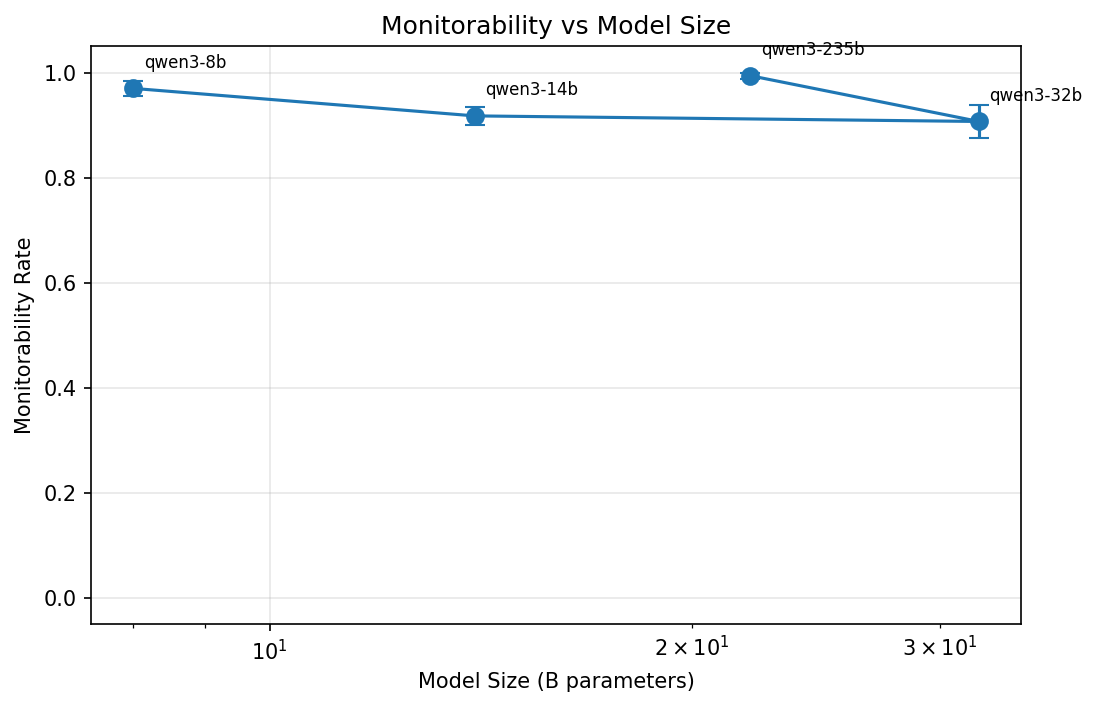
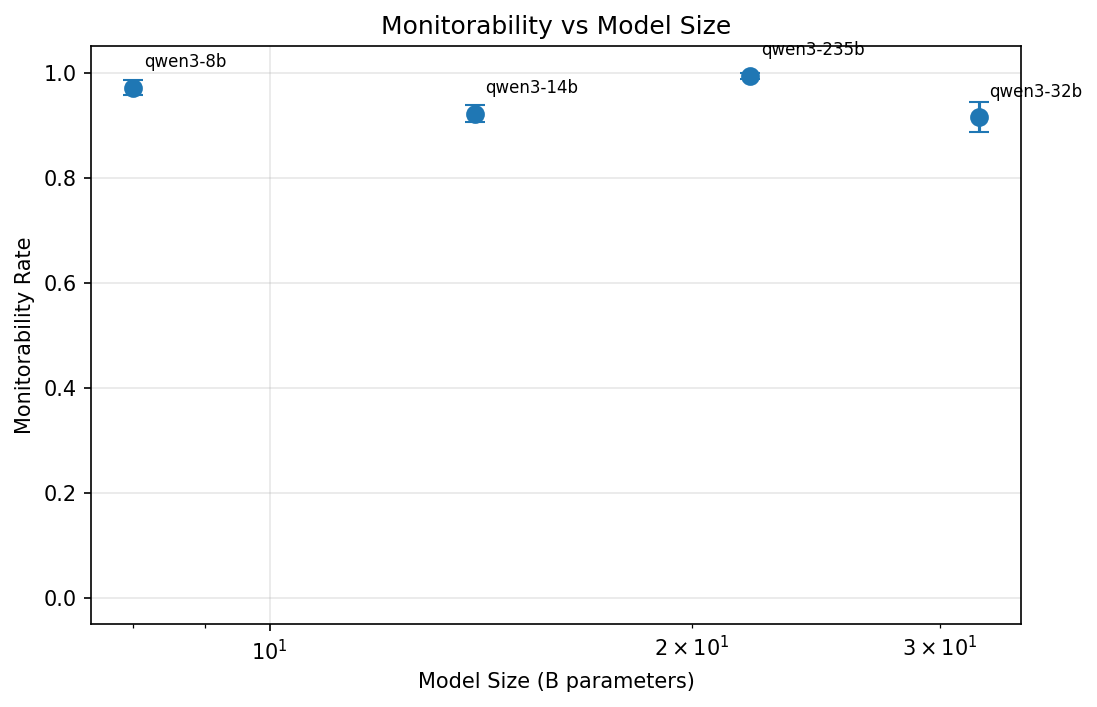
updated plot

diff --git a/analysis/plot_scaling.py b/analysis/plot_scaling.py
@@ -257,7 +257,7 @@ def plot_monitorability_vs_size(data: list[dict], output_dir: Path):
     errors = [d["monitorability_se"] for d in models]
     names = [d["name"] for d in models]
 
-    ax.errorbar(sizes, rates, yerr=errors, fmt="o-", capsize=5, markersize=8)
+    ax.errorbar(sizes, rates, yerr=errors, fmt="o", capsize=5, markersize=8, linestyle="none")
 
     for i, name in enumerate(names):
         ax.annotate(name, (sizes[i], rates[i]), textcoords="offset points",
@@ -290,11 +290,14 @@ def plot_monitorability_vs_capability(data: list[dict], output_dir: Path):
     errors = [d["monitorability_se"] for d in models]
     names = [d["name"] for d in models]
 
-    ax.errorbar(caps, rates, yerr=errors, fmt="s-", capsize=5, markersize=8, color="tab:orange")
+    ax.errorbar(caps, rates, yerr=errors, fmt="s", capsize=5, markersize=8, color="tab:orange", linestyle="none")
 
+    # Stagger label offsets to avoid overlap
+    offsets = [(5, 10), (-5, -15), (5, 10), (-5, -15)]
     for i, name in enumerate(names):
+        ox, oy = offsets[i % len(offsets)]
         ax.annotate(name, (caps[i], rates[i]), textcoords="offset points",
-                    xytext=(5, 10), fontsize=8)
+                    xytext=(ox, oy), fontsize=8)
 
     ax.set_xlabel("Capability (reasoning accuracy weighted by clue difficulty)")
     ax.set_ylabel("Monitorability Rate")
